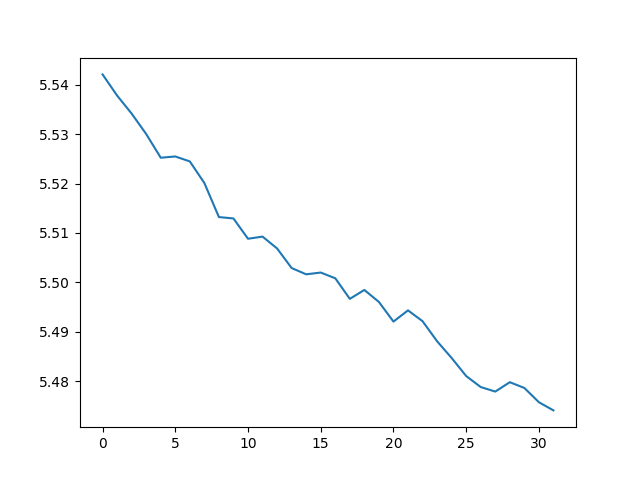
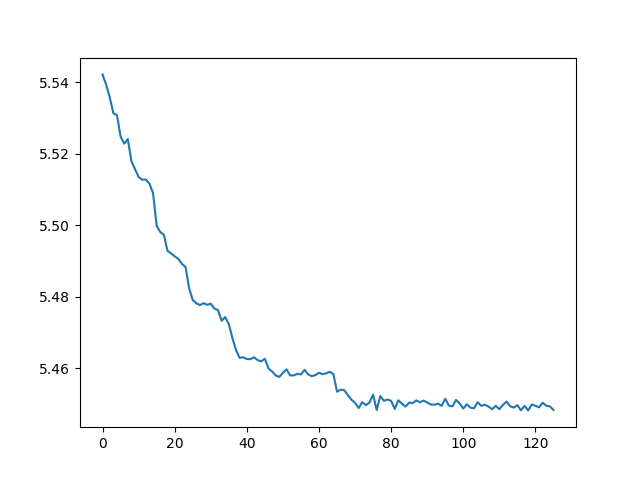
10 epoch loss

diff --git a/wavenet/train.py b/wavenet/train.py
@@ -140,14 +140,22 @@ def train():
         os.makedirs(train_params["log_dir"])
     if not os.path.exists(train_params["restore_dir"]):
         os.makedirs(train_params["restore_dir"])
-    loss_log_file = open(train_params["log_dir"]+'loss_log.log', 'w')
-    store_log_file = open(train_params["log_dir"]+'store_log.log', 'w')
+    loss_log_file = open(train_params["log_dir"]+'loss_log.log', 'a')
+    store_log_file = open(train_params["log_dir"]+'store_log.log', 'a')
 
     '''
     Train in epochs
     '''
     total_loss = 0.0
-    num_trained = 0
+    with open(train_params["log_dir"] + 'loss_log.log', 'r') as f:
+        lines = f.readlines()
+        if len(lines) > 0:
+            num_trained = lines[-1].split(' ')[2]
+            num_trained = int(num_trained)
+        else:
+            num_trained = 0
+    f.close()
+
     for epoch in range(train_params["num_epochs"]):
         for i_batch, sampled_batch in enumerate(dataloader):
             optimizer.zero_grad()
